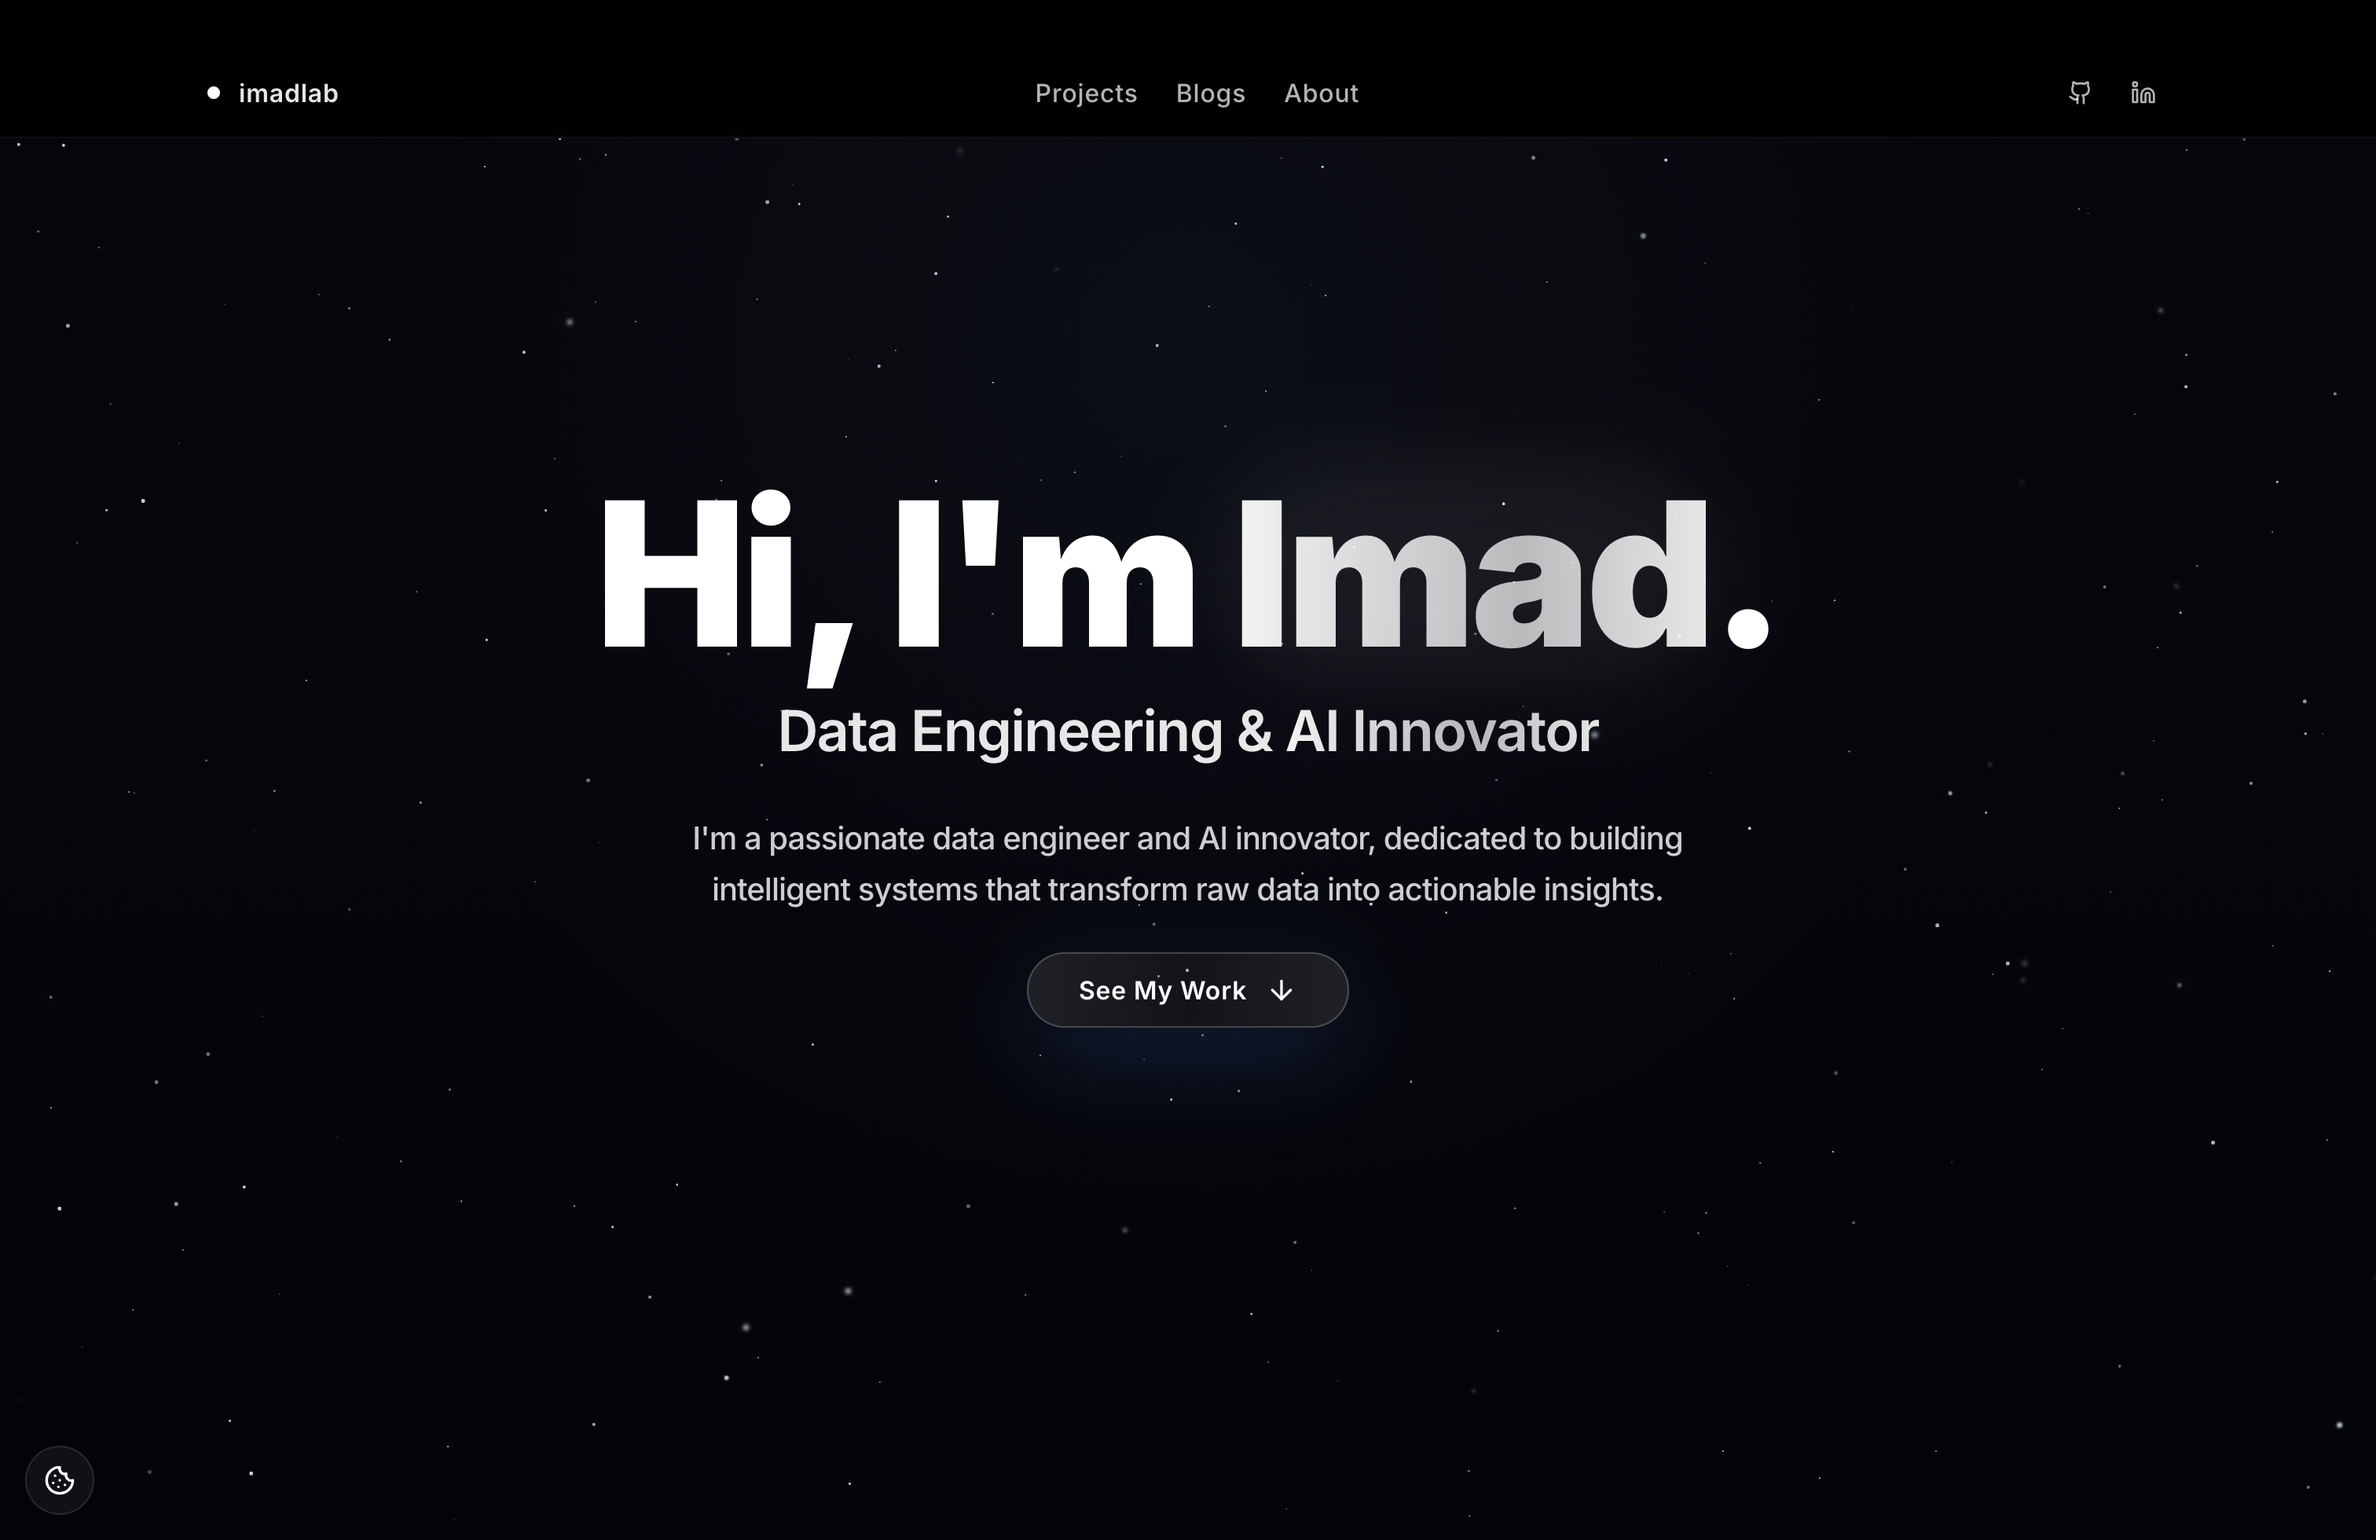
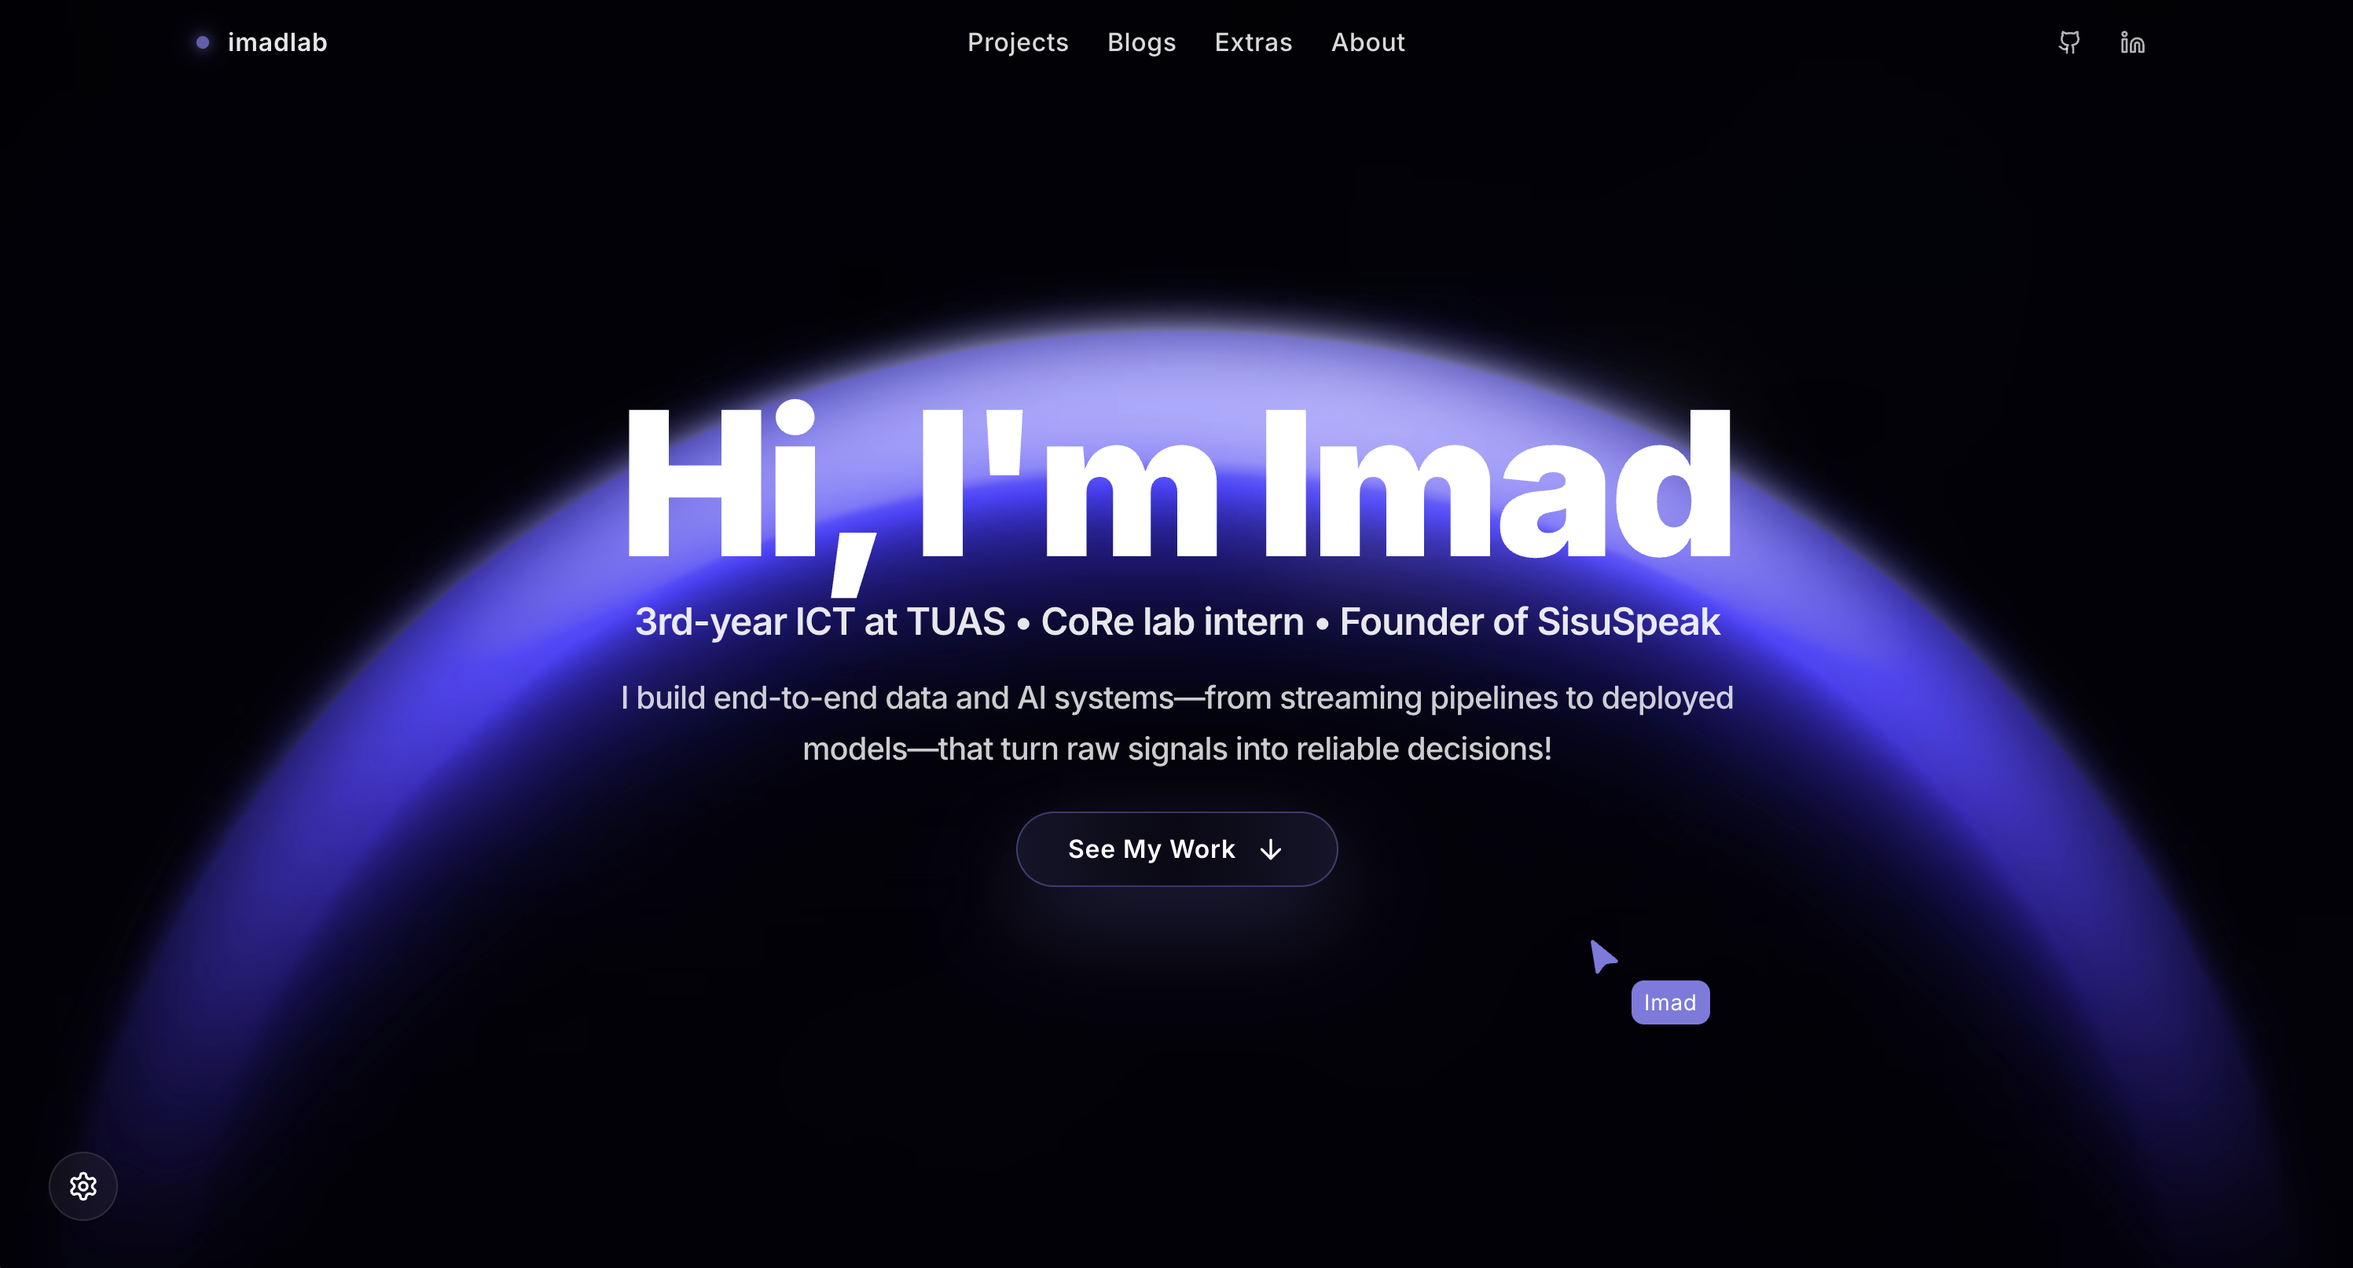
Update README.md to enhance project description and feature highlights

diff --git a/README.md b/README.md
@@ -1,14 +1,13 @@
 <div align="center">
   <img src="https://raw.githubusercontent.com/imaddde867/imadlab/refs/heads/master/doc/Hero_section.png" alt="imadlab hero section screenshot" width="800" style="max-width:100%;border-radius:16px;box-shadow:0 2px 16px rgba(0,0,0,0.10);margin-bottom:12px;" />
-  <h1>imadlab: A Next-Gen Developer Portfolio</h1>
-  <p>Where Data Engineering Meets Cutting-Edge Web Development</p>
+  <h1>imadlab: Data & AI Systems Portfolio</h1>
 </div>
 
 ## Overview
 
-imadlab is a production-ready portfolio that shows how I design and operate data-centric web systems. The site combines a React 18 front end with Supabase services, automated publishing flows, and real-time integrations—all tuned for fast performance and clean operations.
+imadlab showcases how I design, build, and run data-heavy web systems end to end. A React 18 + TanStack Query front end sits on top of Supabase services, custom analytics, and automation scripts so the site stays fast, interactive, and always up to date.
 
-**Live Demo:** [imadlab.me](https://imadlab.me) · **Source:** [github.com/imaddde867/imadlab](https://github.com/imaddde867/imadlab)
+**Live Demo:** [imadlab.me](https://imadlab.me) | **Source:** [github.com/imaddde867/imadlab](https://github.com/imaddde867/imadlab)
 
 ## Quick Start
 
@@ -16,102 +15,96 @@ imadlab is a production-ready portfolio that shows how I design and operate data
 git clone https://github.com/imaddde867/imadlab.git
 cd imadlab
 npm install
+cp .env.example .env  # set Strava credentials for Edge Functions
 npm run dev
 ```
 
-## Highlights
+- Optional: copy `supabase/.env.local` to configure Supabase CLI or create your own with project keys.
+- Useful scripts: `npm run lint`, `npm run typecheck`, `npm run build`.
 
-<div style="display: grid; grid-template-columns: repeat(auto-fit, minmax(300px, 1fr)); gap: 20px; margin: 30px 0;">
+## Feature Highlights
 
-### Portfolio Delivery
-- Dynamic project filtering and deep-dive case studies
-- Cross-platform responsive layouts and design tokens
-- Automated sync with GitHub repos and hosted demos
+- **Content & Publishing** - Supabase-backed projects and blog with shadcn/ui admin tools, staged drafts, rich Markdown (GFM, KaTeX, Mermaid), RSS feed, and sitemap generation.
+- **Real-Time Integrations** - Running dashboards powered by Strava Edge Functions with multi-layer caching, Spotify Now Playing, and newsletter forms with automatic tagging.
+- **Automation & Email Ops** - Newsletter queue processed by Supabase Edge Functions, Resend templates, inbound webhooks, unsubscribe tokens, and retry-aware delivery.
+- **Privacy-Aware Analytics** - Consent-gated tracking, Supabase storage for sessions/page views, geolocation enrichment via Edge Functions, and an internal analytics dashboard with period filtering.
+- **Experience & DX** - React Query data fetching, route prefetch, custom cursor/interaction effects, Tailwind + shadcn/ui components, and structured logging for observability.
 
-### Publishing Pipeline
-- GitHub-alike Markdown with KaTeX math, Mermaid diagrams, and syntax highlighting
-- Secure admin workflow with previews and staged deploys
-- SEO-first rendering (OpenGraph, sitemap, schema.org)
-
-### Real-Time Integrations
-<video src="https://raw.githubusercontent.com/imaddde867/imadlab/master/doc/admin_demo.mov" controls width="100%" style="border-radius:12px;"></video>
-
-- **Strava API**: Running stats, activity timelines, and year-over-year trends with smart caching
-- **Analytics Dashboard**: Privacy-first tracking with GDPR-compliant consent management
-- **Newsletter System**: Queue with retries, unsubscribe handling, and delivery analytics
-- **Spotify Now Playing**: Real-time music status via Edge Functions
-</div>
+<video src="https://raw.githubusercontent.com/imaddde867/imadlab/master/doc/admin_demo.mov" controls width="100%" style="border-radius:12px;margin-top:20px;"></video>
 
 ## Technology Stack
 
 ```mermaid
 graph TD
-    A[Frontend] --> B[React 18]
-    A --> C[TypeScript]
-    A --> D[Vite]
-    A --> E[Tailwind CSS + shadcn/ui]
+    A[Frontend] --> B[React 18 + TypeScript]
+    A --> C[Vite 7]
+    A --> D[Tailwind CSS + shadcn/ui]
+    A --> E[TanStack Query]
     
     F[Backend] --> G[Supabase]
     G --> H[PostgreSQL + RLS]
-    G --> I[Auth]
-    G --> J[Storage]
-    G --> K[Edge Functions]
+    G --> I[Auth + Storage]
+    G --> J[Edge Functions]
     
-    L[Integrations] --> M[Strava API]
-    L --> N[Spotify API]
-    L --> O[Formspree]
-    L --> P[Resend]
+    K[Integrations] --> L[Strava API]
+    K --> M[Spotify API]
+    K --> N[Resend]
+    K --> O[Formspree]
     
-    Q[Content] --> R[React Markdown]
-    R --> S[GitHub-alike Markdown]
-    R --> T[KaTeX Math]
-    R --> U[Mermaid Diagrams]
-    R --> V[Syntax Highlighting]
+    P[Content Pipeline] --> Q[React Markdown]
+    Q --> R[Remark/Rehype Plugins]
+    Q --> S[KaTeX]
+    Q --> T[Mermaid]
     
-    W[DevOps] --> X[GitHub Actions]
-    W --> Y[Vercel/Netlify]
-    W --> Z[Automated SEO]
+    U[DevOps] --> V[GitHub Actions]
+    U --> W[Vercel/Netlify Deploy]
+    U --> X[Sitemap & RSS Automation]
 ```
 
-## Architecture
+## Project Layout
 
 ```bash
 src/
-├── components/      # Reusable UI library (shadcn-based + custom)
-│   ├── running/     # Strava integration components
-│   ├── markdown/    # GFM renderer with math & diagrams
-│   └── ui/          # Core design system components
-├── hooks/           # Analytics, scroll effects, toast notifications
-├── integrations/    # Supabase, Strava, Spotify API clients
-├── lib/             # Utilities, caching, consent management
-└── pages/           # Route-level views and admin dashboards
+|-- components/      # UI + animations (Hero, Projects, Markdown, analytics, running dashboards)
+|-- hooks/           # Analytics, intersection observers, motion preferences, toasts
+|-- integrations/    # Supabase and Strava clients with caching helpers
+|-- lib/             # Utilities, analytics helpers, consent, logging, prerender data
+|-- pages/           # Public pages and admin surfaces (blog, projects, dashboards, extras)
+|-- types/           # Shared TypeScript types for content and integrations
+`-- App.tsx          # Route definitions
 
 supabase/
-├── functions/       # Edge Functions (Strava, Spotify, newsletters)
-└── migrations/      # Database schema and RLS policies
+|-- functions/       # Edge Functions (strava-proxy, spotify-now-playing, newsletters, geolocation)
+`-- migrations/      # Database schema, policies, and triggers
+
+scripts/
+|-- generate-sitemap.js
+|-- generate-feed.js
+`-- prerender.js     # Injects prerendered markup + data into build output
 ```
 
-Key patterns:
+## Edge Functions & Automation
 
-- **Supabase Edge Functions** proxy external APIs, send newsletters, and track analytics
-- **React Query** drives data fetching with intelligent caching and optimistic updates
-- **Advanced Markdown** supports GFM, KaTeX equations, Mermaid diagrams, and code highlighting
-- **Privacy-First Analytics** with GDPR cookie consent and visitor session tracking
-- **Smart Caching** for Strava data with rate limit protection and fallback strategies
-- Typed Supabase schemas keep the database and UI in sync
-- Automated migrations, linting, and CI guardrails ensure consistency
+- `strava-proxy`: Authenticates with Strava, caches requests, and serves stats/activities to the Extras page.
+- `spotify-now-playing`: Refreshes Spotify tokens and returns the current track with CDN-friendly caching.
+- `send-newsletter-emails`, `email-webhook`, `handle-unsubscribe`: Manage outbound campaigns, inbound events, and subscriber preferences.
+- `geolocation`: Enriches analytics sessions with country/region/city metadata.
+- Build hooks (`generate-sitemap`, `generate-feed`, `prerender`) keep SEO assets, RSS, and static shells current on every deploy.
+
+## Development Notes
+
+- Fill `.env` and Supabase secrets before invoking Edge Functions locally.
+- Analytics honors the cookie consent gate; when disabled, no data leaves the browser.
+- Newsletter and contact workflows require Resend + Formspree credentials to send real email.
+- Linting (`npm run lint`) and type checks (`npm run typecheck`) guard pull requests; CI mirrors the same commands.
 
 ## Impact
 
-imadlab demonstrates:
-
-- End-to-end ownership of a cloud-native content platform with real-time integrations
-- Advanced markdown rendering with mathematical equations, diagrams, and code highlighting
-- Privacy-compliant analytics with GDPR cookie consent and visitor tracking
-- Robust API integration patterns with smart caching and rate limit handling
-- Secure admin tooling with error handling, observability, and email campaign management
-- Performance-tuned UX with Lighthouse 95+ scores and responsive design
-- Maintainable, extensible architecture suited for production workloads
+- Demonstrates full-stack ownership across data ingestion, content ops, and UX polish.
+- Privacy-compliant analytics with consent handling, geolocation enrichment, and admin visibility.
+- Resilient API integrations with rate-limit-aware caching, retries, and graceful fallbacks.
+- Newsletter automation, Strava dashboards, and Spotify presence showcase real-time storytelling.
+- Consistent performance (Lighthouse 95+) and responsive design tuned for modern devices.
 
 ---
 
